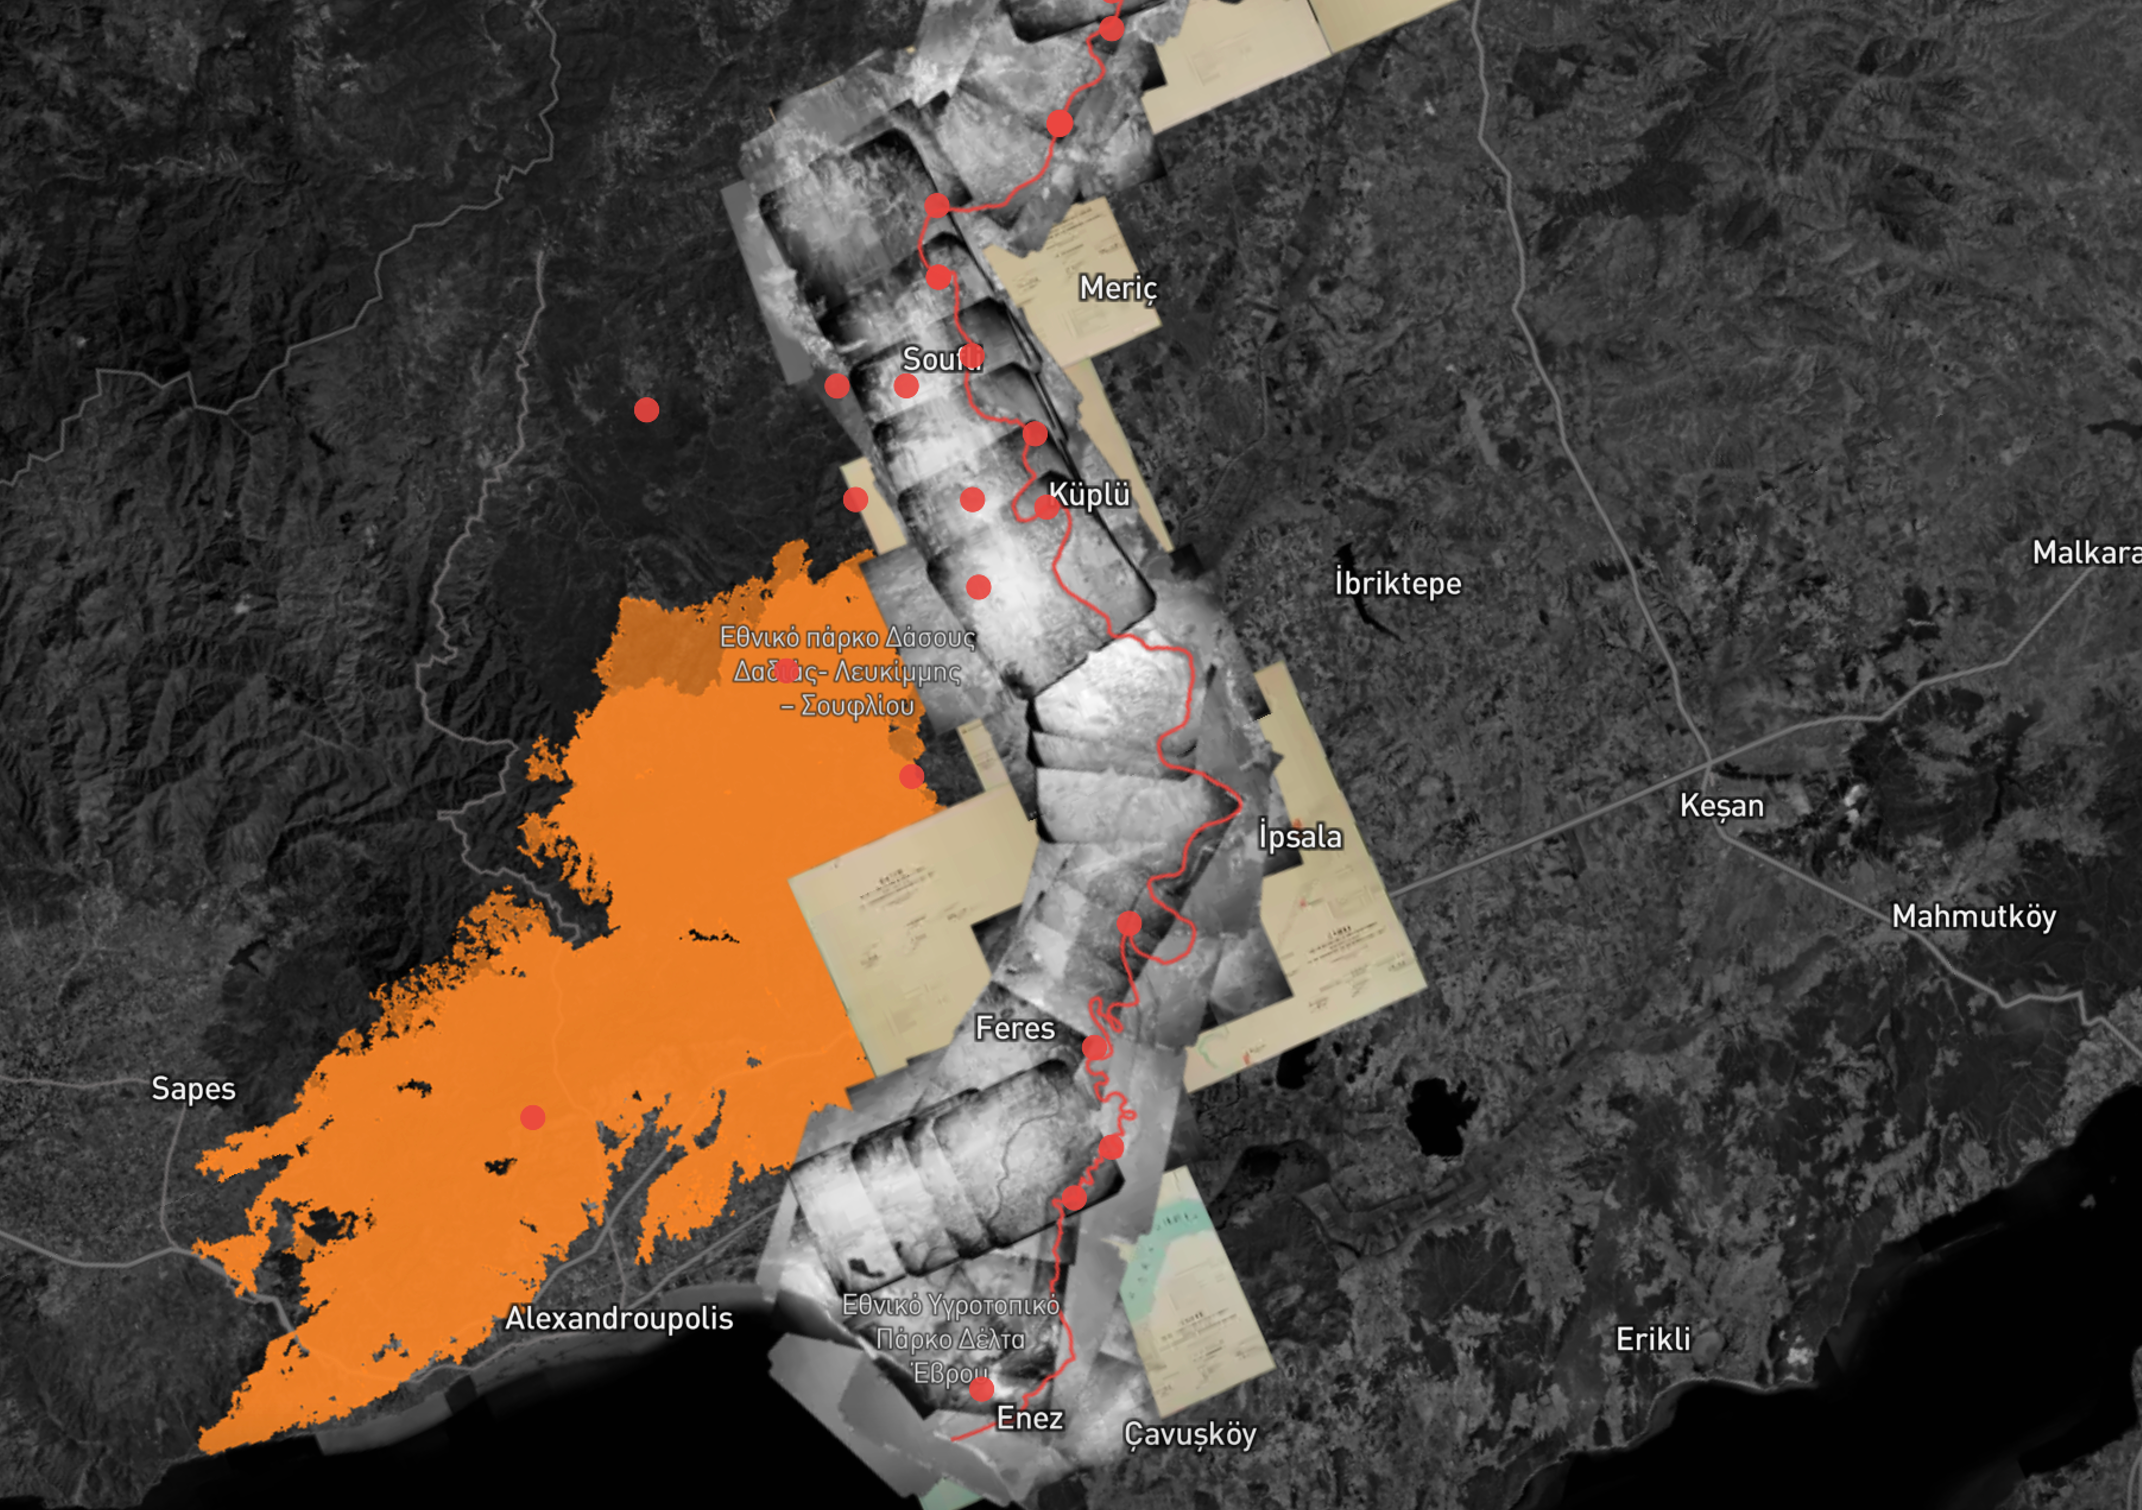
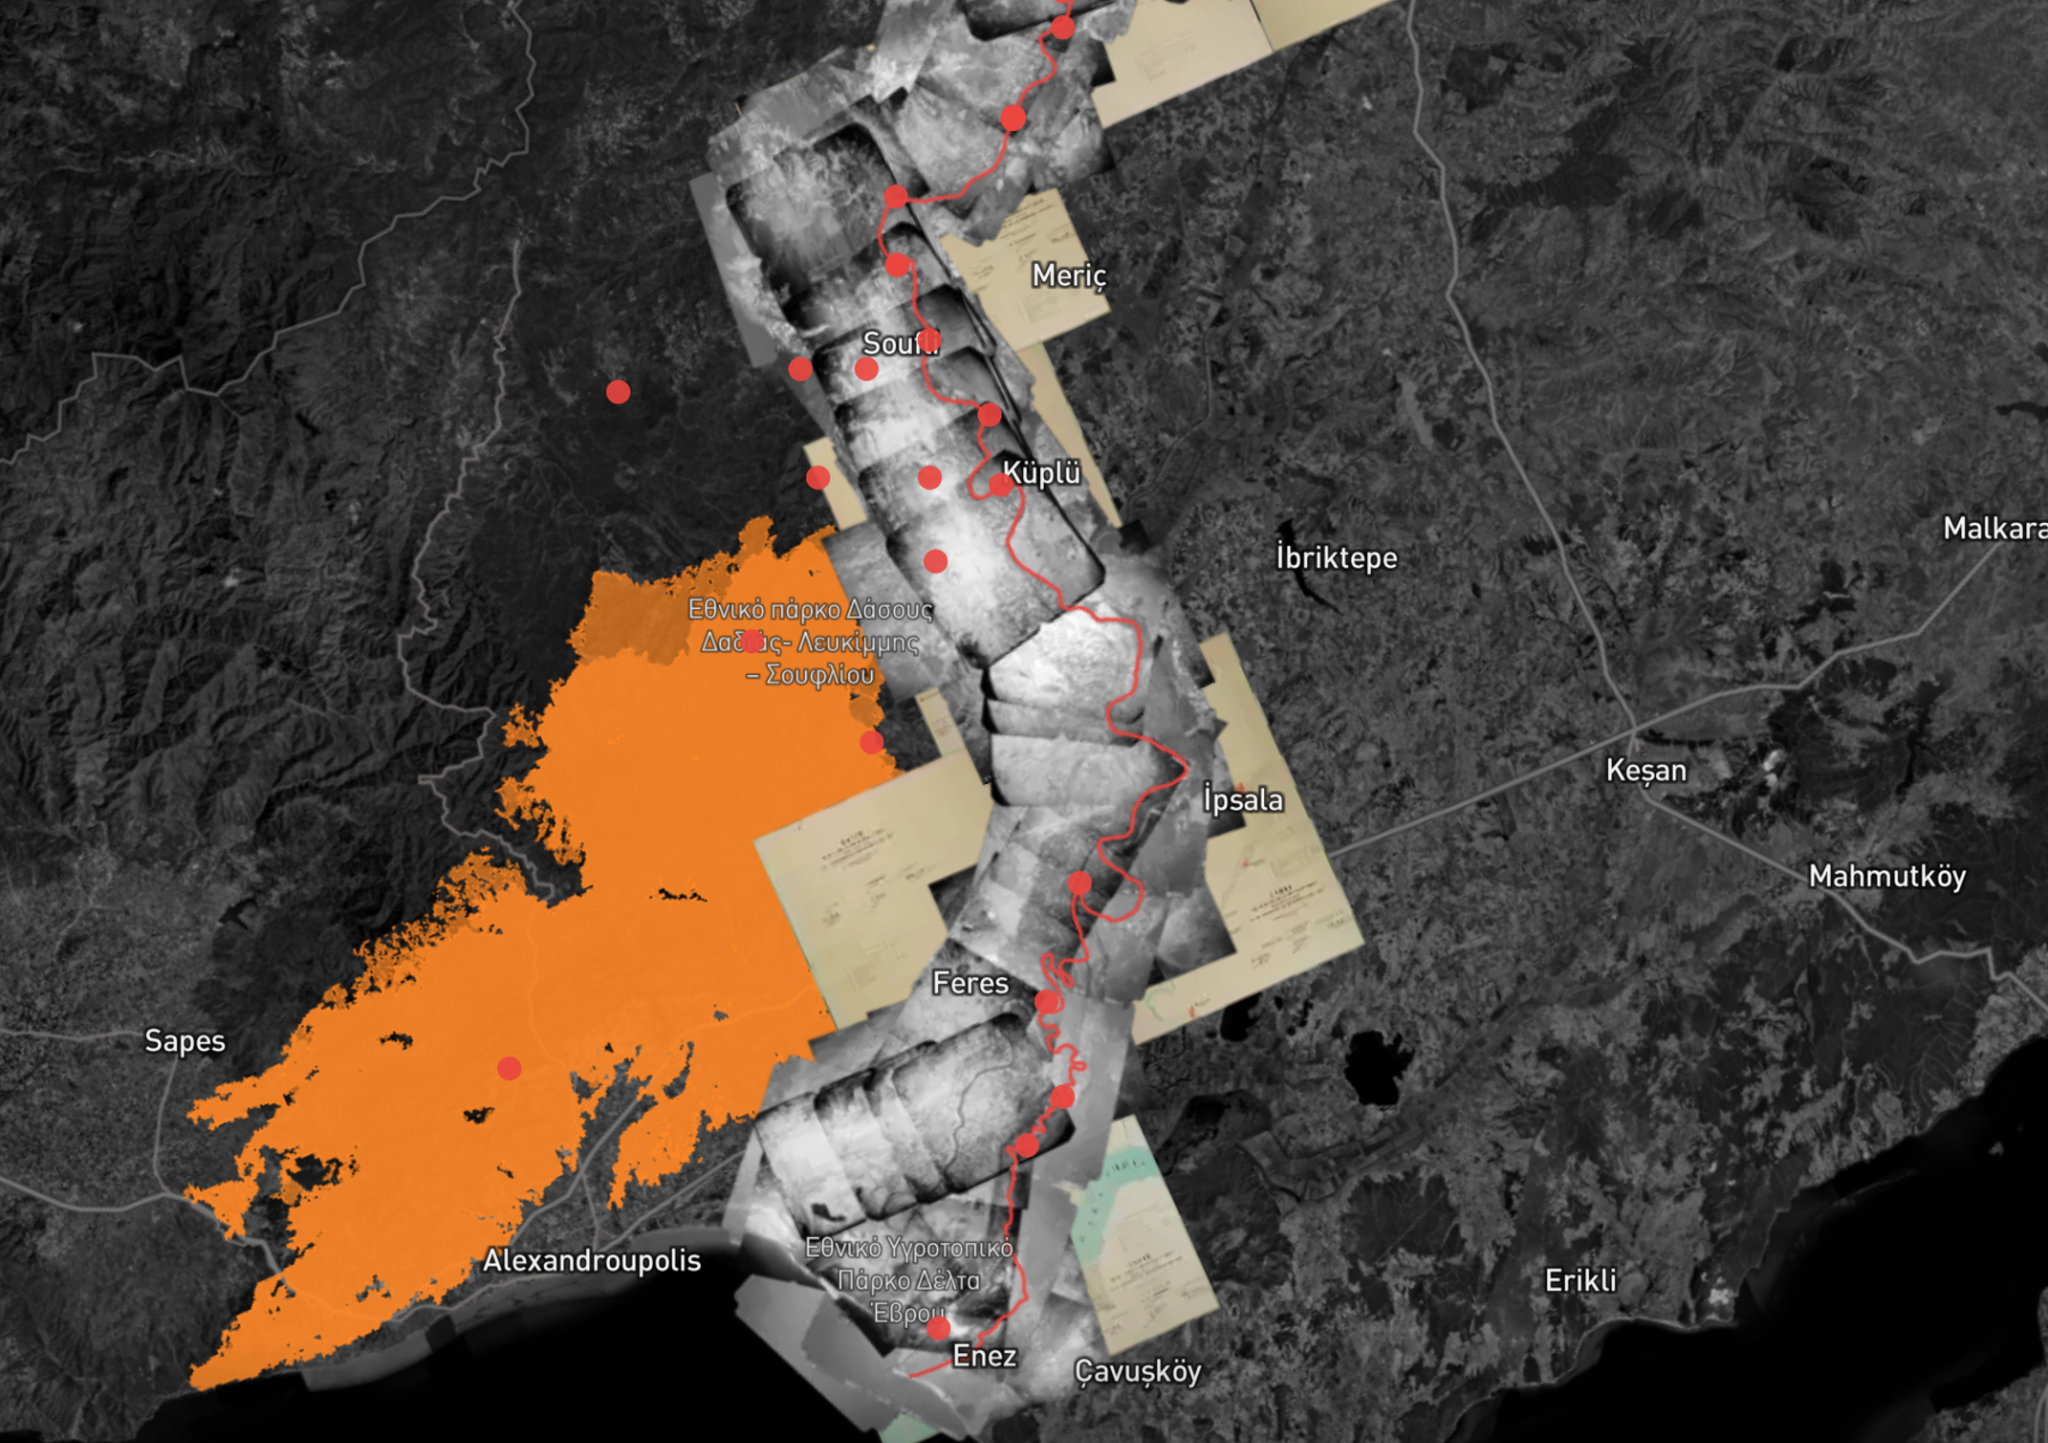
Add files via upload

diff --git a/presentation.html b/presentation.html
@@ -4207,6 +4207,30 @@ body{
   }
 }
 
+
+/* Chapter 08 — fixed six-line explanatory copy */
+#s08 .route-experiment-six-line-copy{
+  display:block!important;
+  margin:0!important;
+  max-width:none!important;
+  font-size:12.5px!important;
+  line-height:1.42!important;
+  letter-spacing:-.005em;
+}
+#s08 .route-experiment-six-line-copy>span{
+  display:block;
+  white-space:nowrap;
+}
+@media (min-width:901px) and (max-width:1320px){
+  #s08 .route-experiment-six-line-copy{font-size:10.8px!important;line-height:1.35!important}
+}
+@media (min-width:901px) and (max-width:1260px){
+  #s08 .route-experiment-six-line-copy{font-size:10.4px!important;line-height:1.31!important}
+}
+@media (max-width:900px){
+  #s08 .route-experiment-six-line-copy>span{white-space:normal}
+}
+
 </style>
 </head>
 <body>
@@ -4670,7 +4694,7 @@ body{
       <h2>One journey, multiple route logics and hidden infrastructures.</h2>
     </div>
     <div class="route-experiment-intro">
-      <p>This method becomes a computational experiment called <em>One Journey, Multiple Route Logics</em>. With the same origin and destination, every candidate is evaluated across distance, moving time, bicycle support, slope, traffic, weather, and risk. The selected Route Objective does not switch factors on or off; it only changes their relative weights. Rather than finding one universally correct route, the experiment shows how different priorities and situated conditions reorder the same candidates. This forms the foundation of the simulator.</p>
+      <p class="route-experiment-six-line-copy"><span>This panel shows how the system compares multiple street-following routes. All factors remain active,</span><span>while the selected objective changes their relative weights. Traffic, weather, slope, bike-lane support,</span><span>risk, and road restrictions can change the ranking, while waiting and handoff time only affect total delivery time.</span><span>In this example, the Direct network is fully closed in yellow. The system generates 37 candidates,</span><span>removes routes that overlap with the closed segments, and keeps 2 valid alternatives.</span><span>The red Cross-corridor hybrid ranks first because it has the lowest weighted score, 0.90, so it becomes the new recommended route.</span></p>
       <div class="route-experiment-fixed">
         <span><b>R</b> 125th Street restaurant</span>
         <i>→</i>
